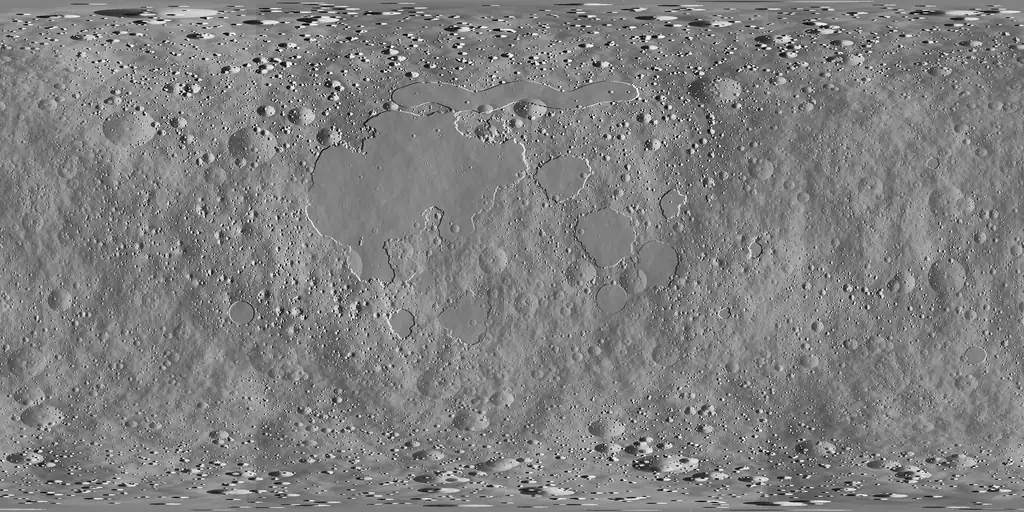
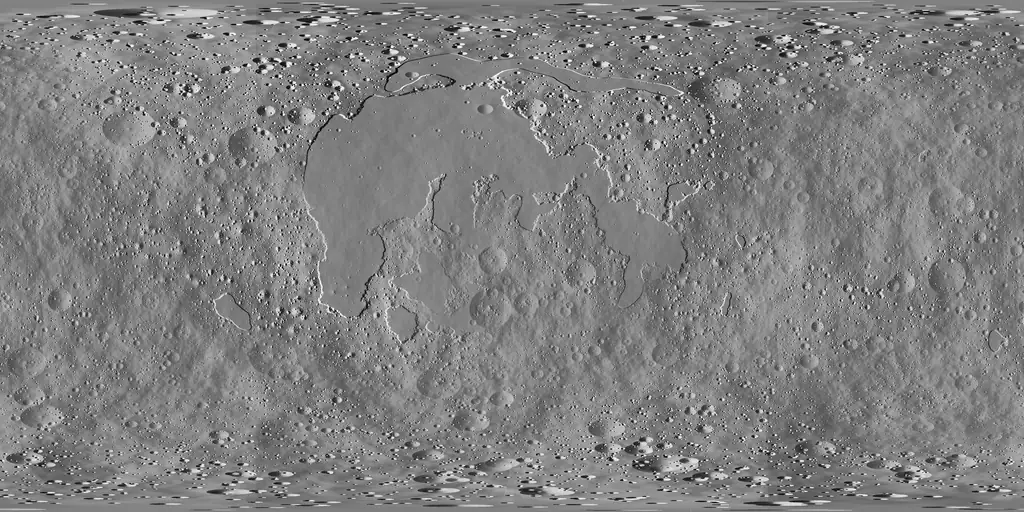
Луна: моря неровные и слитые, тени на орбите мягче; текст на цветных кнопках плеера читается в Луне

diff --git a/src/components/layout/Sky/shader.ts b/src/components/layout/Sky/shader.ts
@@ -74,7 +74,7 @@ vec3 moon(vec3 d, vec3 P) {
       float t = float(i) * float(i) * .0006;
       block = max(block, (relief(q + sd * t) - h) - rise * t * 60.);
     }
-    shade = 1. - smoothstep(.0, .13, block) * .6 * uView;
+    shade = 1. - smoothstep(.02, .22, block) * .38 * uView;
     /* Вблизи морей не видно: пятна альбедо читались бы кляксами, остаётся мелкий рельеф */
     alb = mix(alb, .34 * (.86 + h * .28), uView * .9);
   }

diff --git a/src/app/theme-sky.css b/src/app/theme-sky.css
@@ -34,3 +34,12 @@
   --accent: #0b0b0a;
   color-scheme: light;
 }
+
+/* На серой поверхности цвета кейсов сливаются с текстом на кнопках: метка одна, как у Стали */
+[data-theme='moon'] [style*='--case-color'] {
+  --case-color: #0b0b0a !important;
+}
+
+[data-theme='moon'] :is([data-screen], [data-variant]) {
+  --case-color: #0b0b0a;
+}

diff --git a/tools/space/bake.py b/tools/space/bake.py
@@ -53,18 +53,29 @@ def smooth(a, b, x):
 
 # Моря: широта, долгота, радиус в градусах. Океан Бурь собран из нескольких пятен
 MARIA = [
-    (33, -16, 19.5), (27, 18, 10.5), (8, 31, 12.5), (17, 59, 7.2), (-4, 51, 9.5), (-15, 35, 5.2),
-    (-24, -39, 6.8), (-21, -17, 11.5), (-10, -30, 7.5), *[(56 + 2 * math.sin(i), lo, 3.6) for i, lo in enumerate(range(-36, 44, 5))],
+    (33, -16, 21), (27, 18, 13.5), (8, 31, 16), (17, 59, 8.5), (-4, 51, 12), (-15, 35, 6.5),
+    (-24, -39, 8.5), (-21, -17, 13.5), (-10, -30, 9),
+    # Перемычки: Дождей, Ясности, Спокойствия и Изобилия в настоящем море сливаются
+    (24, 3, 6.5), (13, 4, 6), (15, 22, 6), (2, 43, 7), (-8, 40, 5), (-2, -12, 7.5), (-14, -25, 7), *[(56 + 2 * math.sin(i), lo, 3.6) for i, lo in enumerate(range(-36, 44, 5))],
     (18, -57, 15), (30, -55, 12), (5, -52, 12.5), (-5, -48, 10), (42, -42, 9), (14, -40, 11), (25, -38, 12), (8, -20, 7),
     (20, 70, 3), (2, 85, 3.5), (-20, 75, 3), (33, 148, 2.6), (-20, -95, 4.2), (-35, 163, 3.2),
 ]
 # Поле морей: мягкое слияние пятен, край рвёт фрактальный шум, поэтому пятна сливаются в одну неровную кайму
+# Сфера перед замером искажается шумом: круги становятся лопастями и заливами, центры морей остаются на местах
+def warped():
+    w = np.stack([fbm(2.3, 4, 101.0 + 37 * i, .55) for i in range(3)], -1) * .085
+    w += np.stack([fbm(7.5, 4, 301.0 + 41 * i, .55) for i in range(3)], -1) * .03
+    q = P + w
+    return q / np.linalg.norm(q, axis=-1, keepdims=True)
+
+
+PW = warped()
 field = np.zeros((H, W), np.float32)
 for la, lo, r in MARIA:
-    d = np.degrees(ang(vec(la, lo))) / r
+    d = np.degrees(np.arccos(np.clip(PW @ vec(la, lo), -1, 1))) / r
     field += np.exp(-(d * 1.16) ** 4)
-edge = (fbm(6.5, 7, 3.0, .62) * .34 + fbm(17, 5, 77.0, .6) * .12) * smooth(.04, .34, field)
-mare = smooth(-.06, .09, field - .42 + edge)
+edge = (fbm(6.5, 7, 3.0, .62) * .30 + fbm(21, 5, 77.0, .6) * .16) * smooth(.02, .4, field)
+mare = smooth(-.09, .13, field - .42 + edge)
 
 # Рельеф материка: крупные бассейны, холмы, мелкая рябь
 Hh = fbm(3.0, 7, 9.0, .5) * .03
@@ -165,7 +176,9 @@ grain = fbm(30, 4, 40.0)
 mottled = fbm(6.5, 6, 21.0, .55)
 south = smooth(.3, -.7, np.sin(LAT))
 highland = .54 + south * .07 + mottled * .062 + grain * .016
-sea = .215 + fbm(7.5, 6, 50.0, .55) * .05 + grain * .01
+# Лавы разного возраста: тёмные и светлые поля внутри одного моря, к берегу светлее
+flows = fbm(2.6, 6, 50.0, .6)
+sea = .185 + flows * .05 + (1 - smooth(.35, 1, mare)) * .05 + grain * .01
 A = highland * (1 - mare) + sea * mare + Am * .9 + rays * .34
 A = np.clip(A, .05, 1)
 
